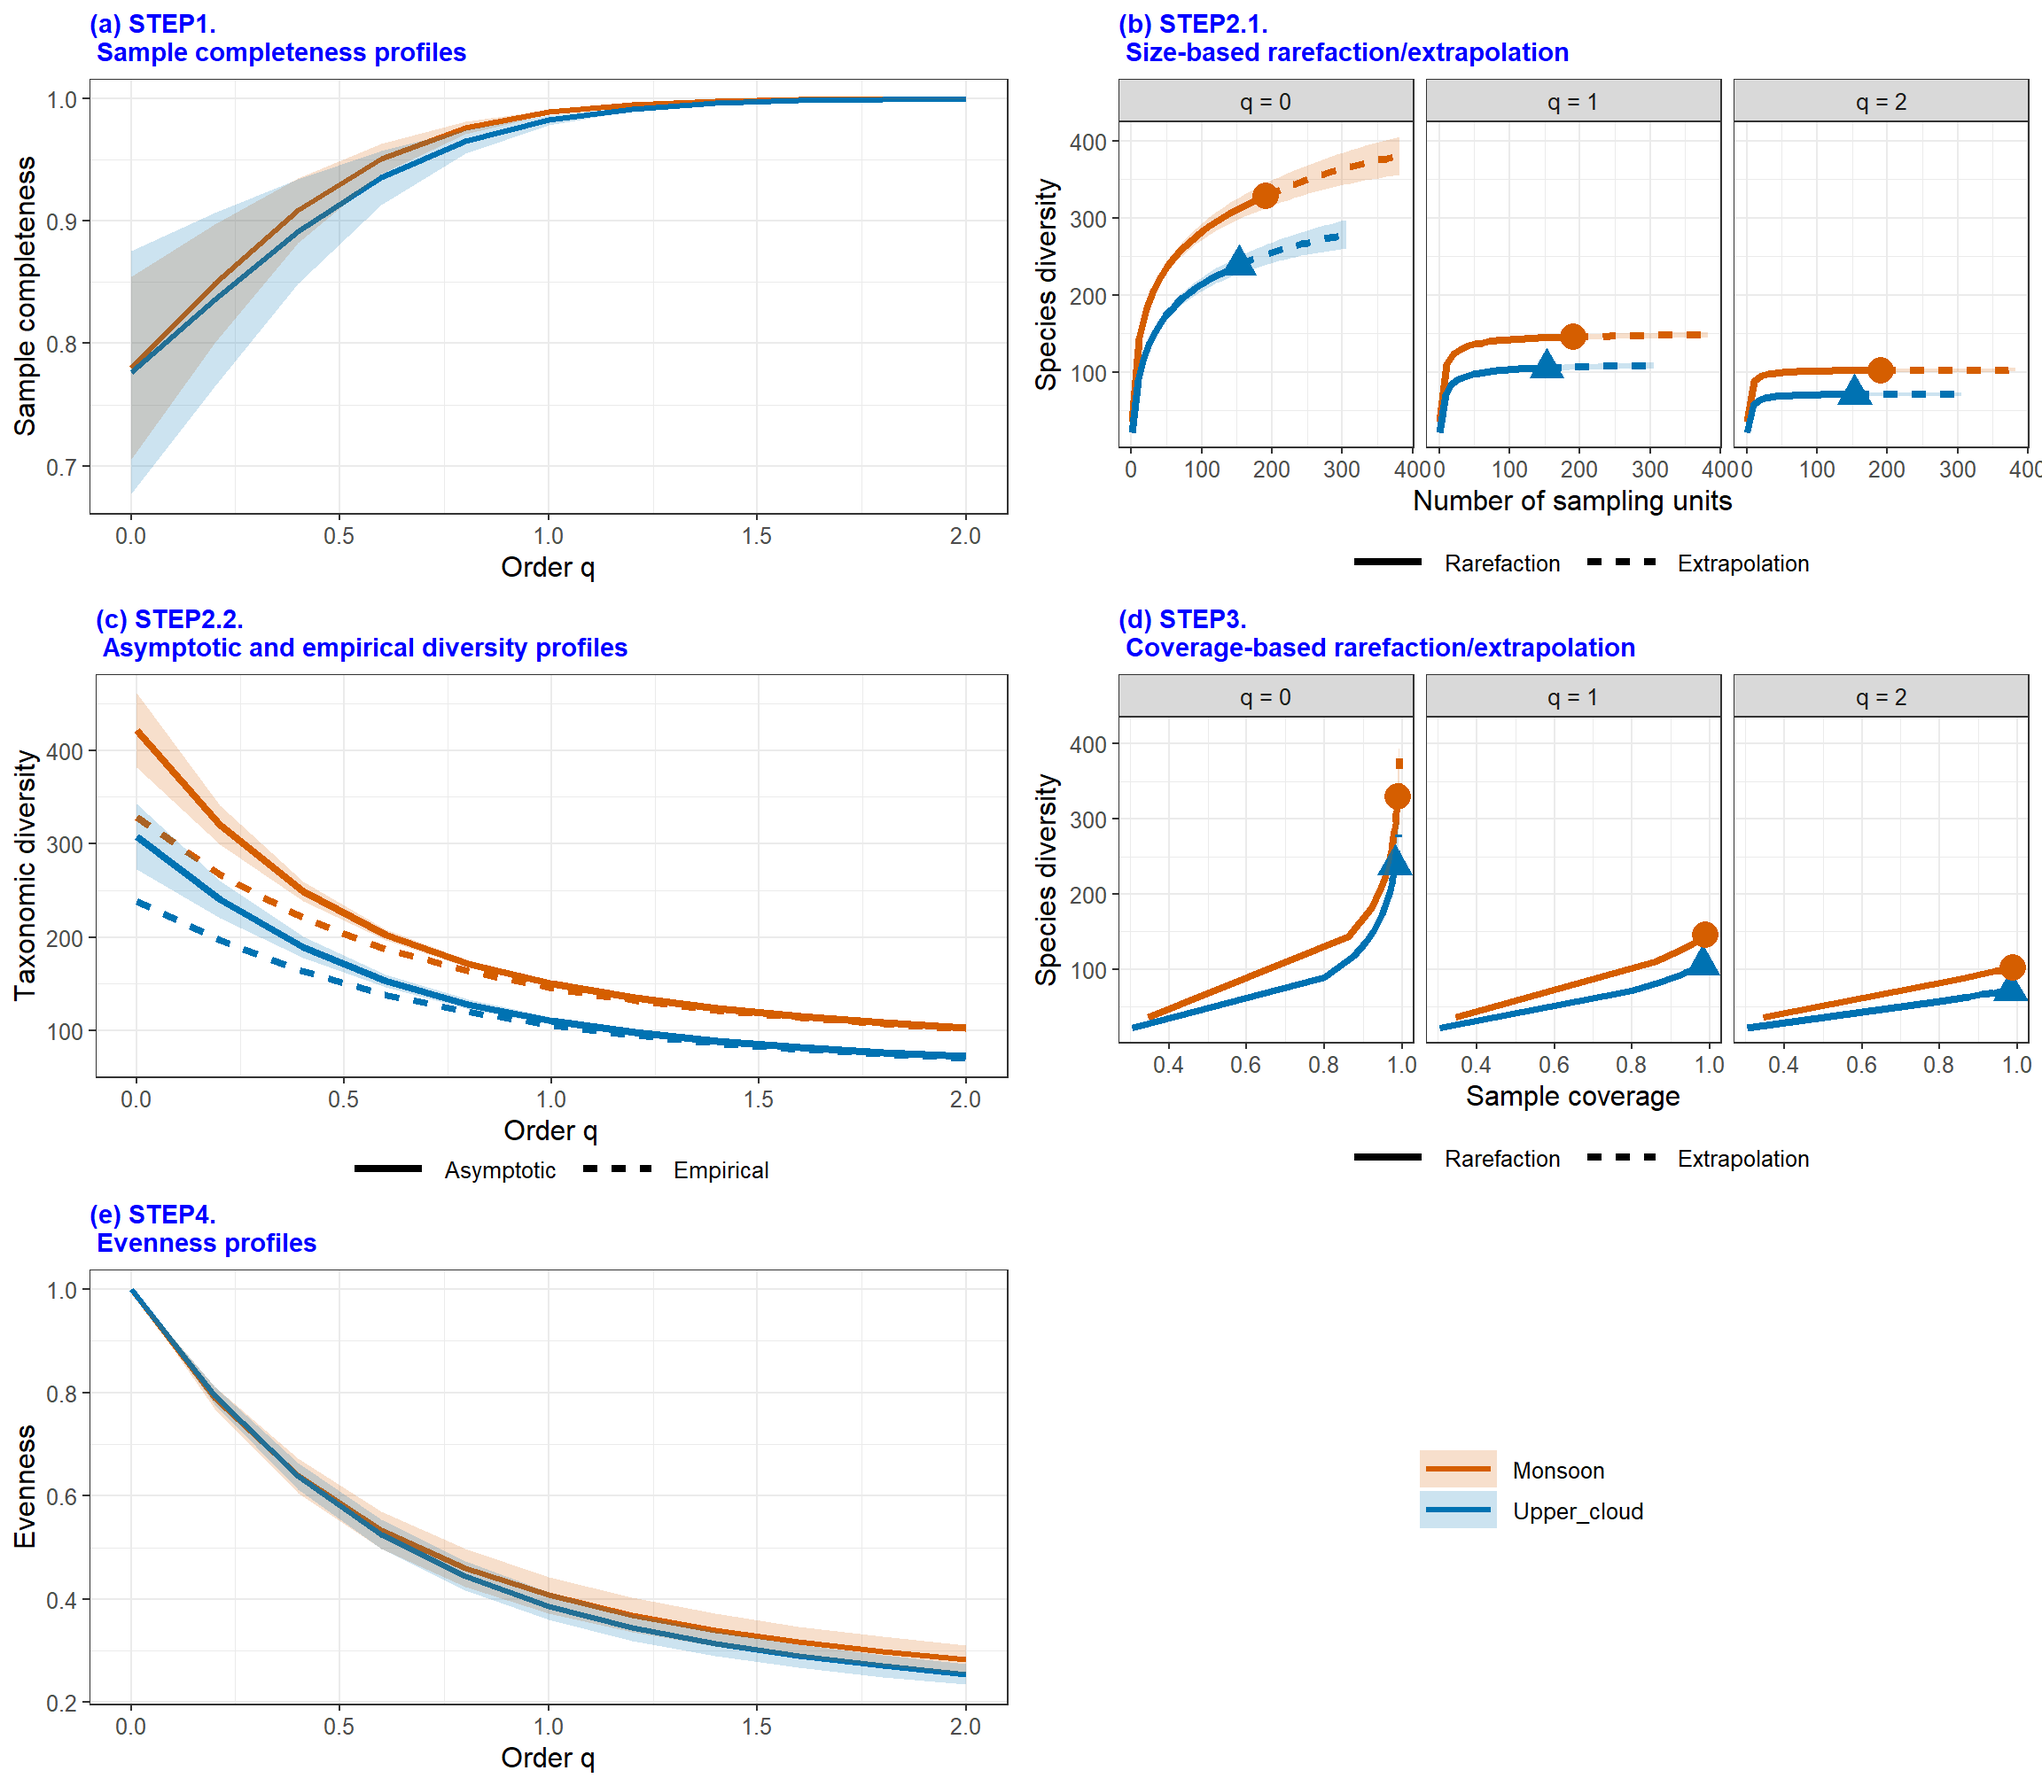
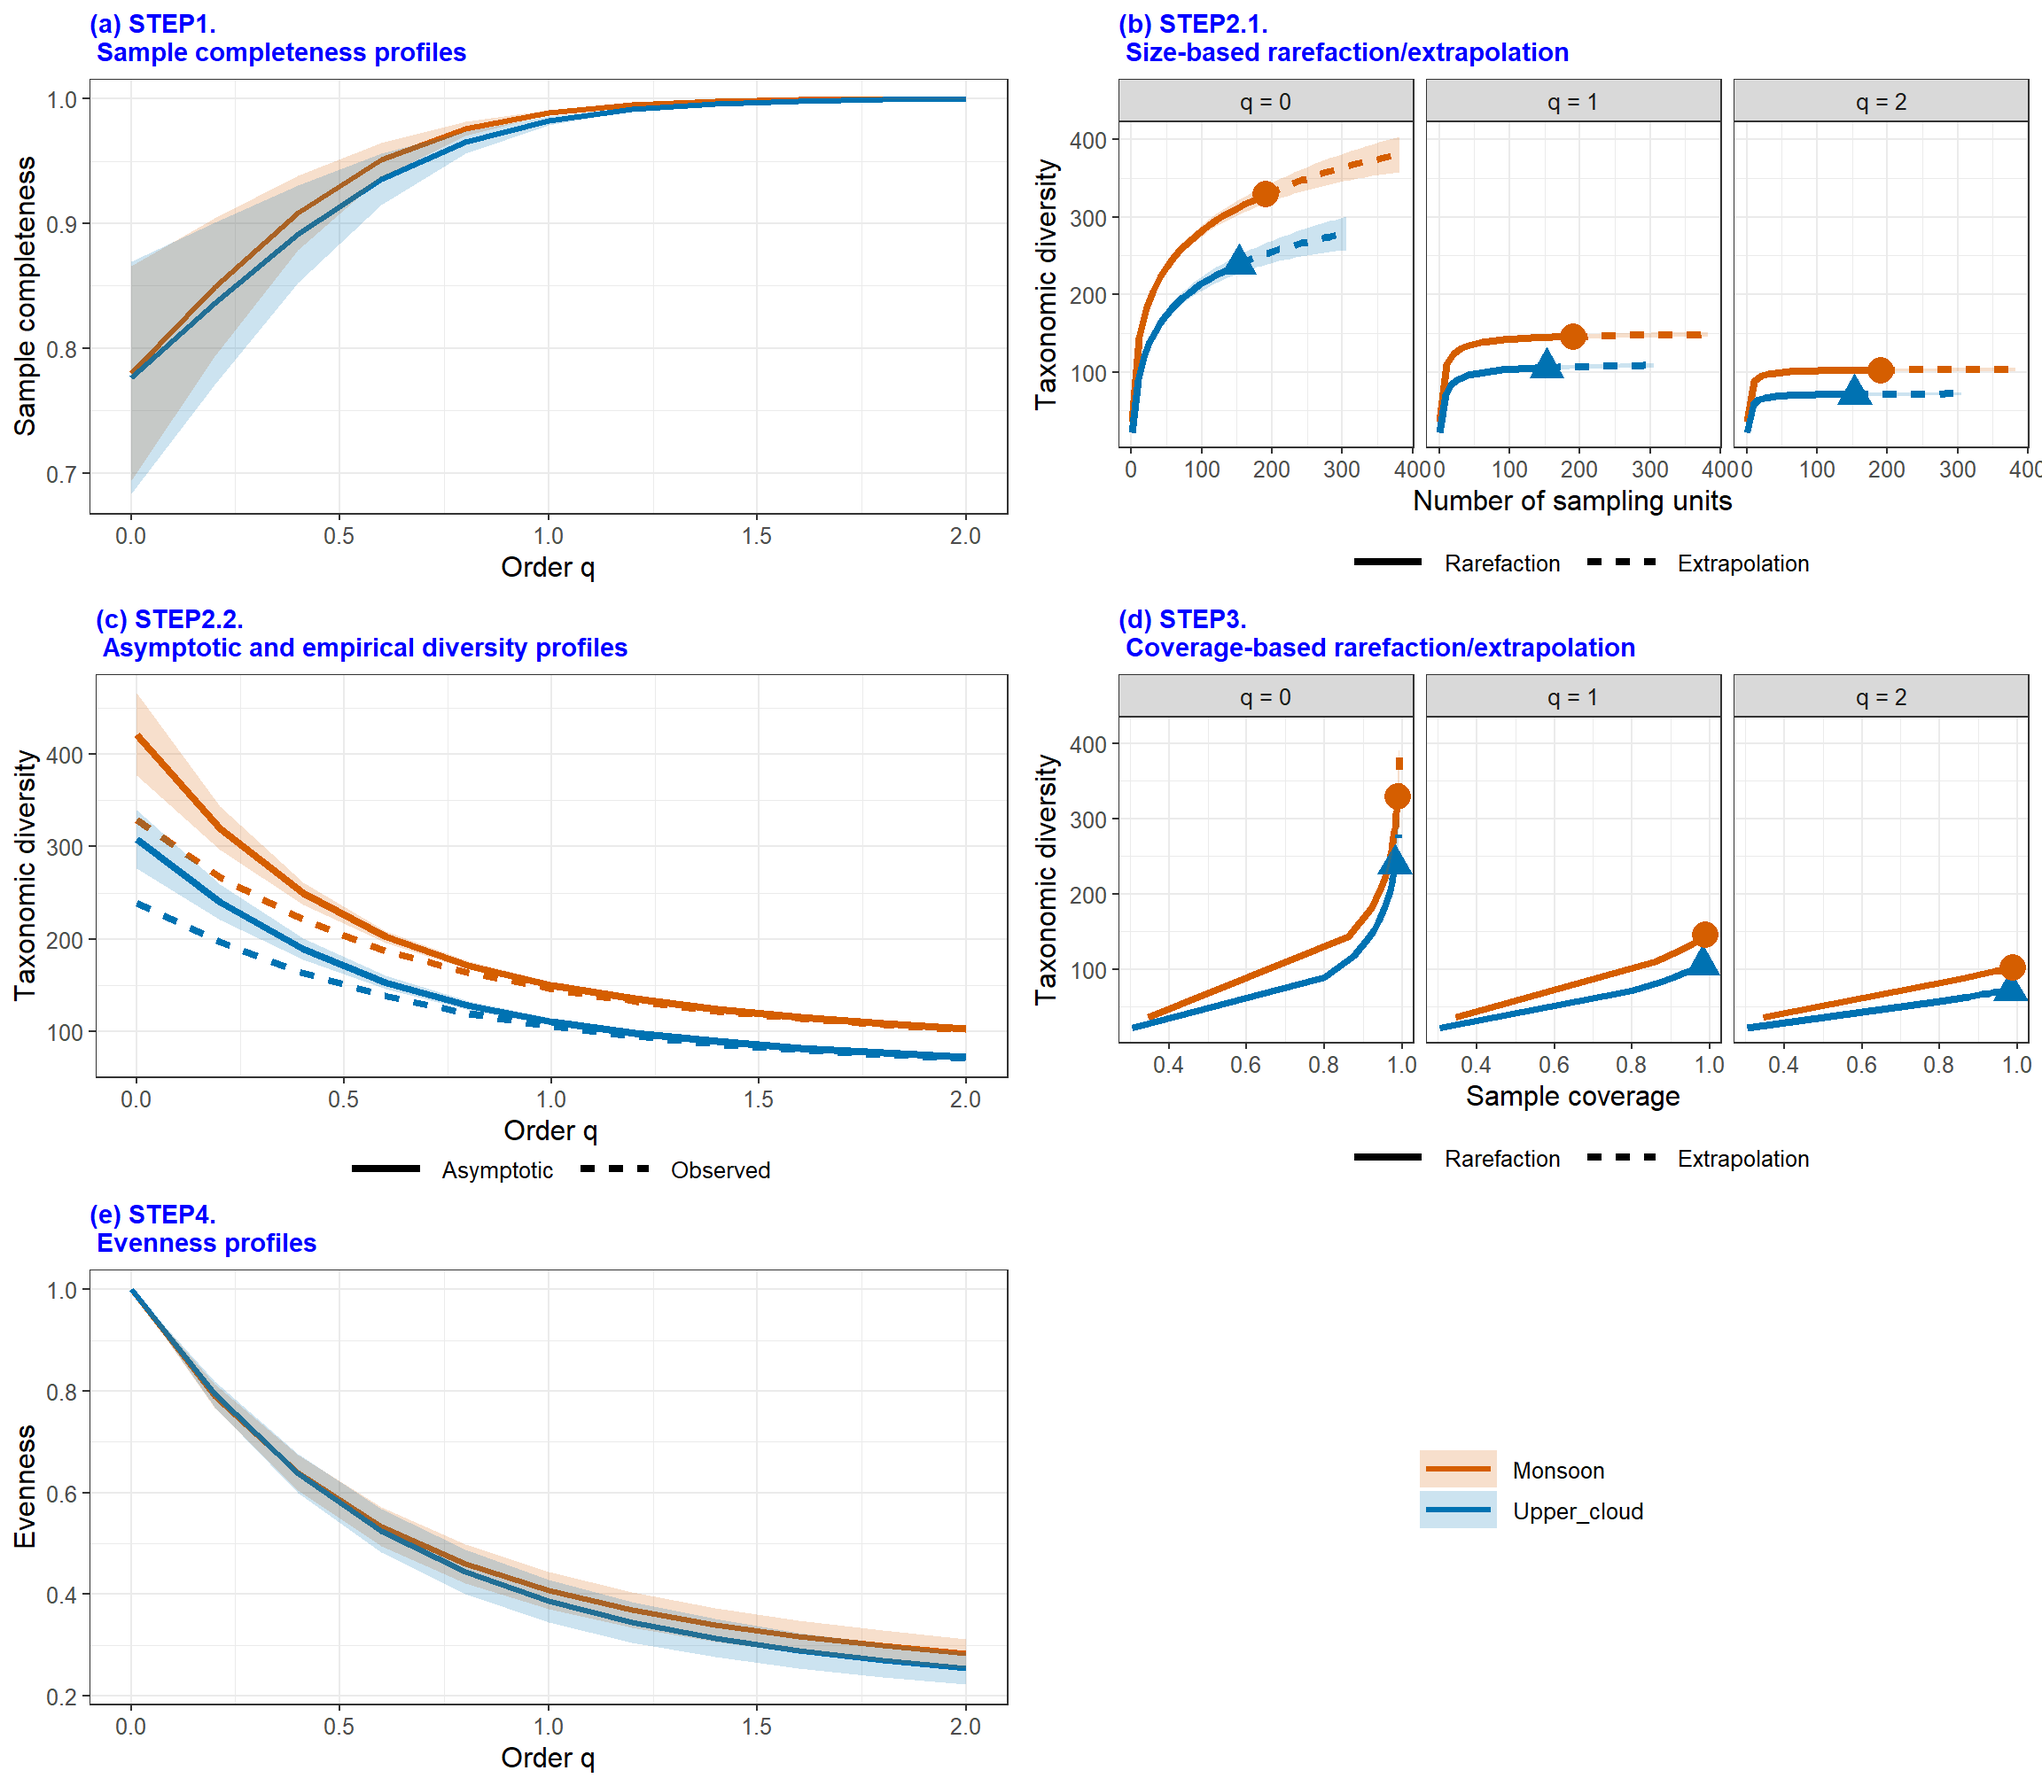
Update

diff --git a/README.md b/README.md
@@ -3,7 +3,7 @@
 # iNEXT.4steps (R package)
 
 <h5 align="right">
-Latest version: 2023-08-05
+Latest version: 2024-01-08
 </h5>
 <font color="394CAE">
 <h3 color="394CAE" style="font-weight: bold">
@@ -12,7 +12,7 @@ User’s Guide
 </h3>
 </font> <br>
 <h5>
-<b>Anne Chao, Kai-Hsiang Hu</b> <br><br> <i>Institute of Statistics,
+<b>Anne Chao, Hu, K.-H.</b> <br><br> <i>Institute of Statistics,
 National Tsing Hua University, Hsin-Chu, Taiwan 30043</i>
 </h5>
 
@@ -440,13 +440,13 @@ $`STEP1. Sample completeness profiles`
 2       Open  0.77  0.99     1
 
 $`STEP2. Asymptotic analysis`
-  Assemblage         Diversity Observed Estimator  s.e.   LCL    UCL
-1     Closed  Species richness    44.00     72.11 35.73 44.00 142.14
-2     Closed Shannon diversity    10.04     10.30  0.34  9.64  10.96
-3     Closed Simpson diversity     5.71      5.73  0.19  5.35   6.10
-4       Open  Species richness    74.00     96.31 13.40 74.00 122.56
-5       Open Shannon diversity    16.34     16.84  0.62 15.62  18.05
-6       Open Simpson diversity     9.41      9.46  0.39  8.70  10.22
+  Assemblage Taxonomic.Diversity Taxonomic.Observed Taxonomic.Estimator  s.e.   LCL    UCL
+1     Closed    Species richness              44.00               72.11 40.96 44.00 152.39
+2     Closed   Shannon diversity              10.04               10.30  0.40  9.51  11.09
+3     Closed   Simpson diversity               5.71                5.73  0.25  5.25   6.21
+4       Open    Species richness              74.00               96.31 17.02 74.00 129.66
+5       Open   Shannon diversity              16.34               16.84  0.49 15.88  17.80
+6       Open   Simpson diversity               9.41                9.46  0.28  8.90  10.01
 
 $`STEP3. Non-asymptotic coverage-based rarefaction and extrapolation analysis`
   Cmax = 0.994 q = 0 q = 1 q = 2
@@ -513,13 +513,13 @@ $`STEP1. Sample completeness profiles`
 2 Upper_cloud  0.78  0.98     1
 
 $`STEP2. Asymptotic analysis`
-   Assemblage         Diversity Observed Estimator  s.e.    LCL    UCL
-1     Monsoon  Species richness   329.00    421.67 19.67 383.13 460.22
-2     Monsoon Shannon diversity   145.65    150.15  2.00 146.23 154.07
-3     Monsoon Simpson diversity   102.33    103.35  1.47 100.46 106.23
-4 Upper_cloud  Species richness   239.00    307.78 24.44 259.89 355.67
-5 Upper_cloud Shannon diversity   105.53    110.50  1.96 106.66 114.34
-6 Upper_cloud Simpson diversity    71.17     72.23  1.37  69.54  74.91
+   Assemblage Taxonomic.Diversity Taxonomic.Observed Taxonomic.Estimator  s.e.    LCL    UCL
+1     Monsoon    Species richness             329.00              421.67 19.03 384.37 458.97
+2     Monsoon   Shannon diversity             145.65              150.15  1.81 146.61 153.69
+3     Monsoon   Simpson diversity             102.33              103.35  1.25 100.89 105.81
+4 Upper_cloud    Species richness             239.00              307.78 18.19 272.13 343.43
+5 Upper_cloud   Shannon diversity             105.53              110.50  2.12 106.35 114.64
+6 Upper_cloud   Simpson diversity              71.17               72.23  1.31  69.65  74.80
 
 $`STEP3. Non-asymptotic coverage-based rarefaction and extrapolation analysis`
   Cmax = 0.993  q = 0  q = 1  q = 2
@@ -557,12 +557,12 @@ $`STEP1. Sample completeness profiles`
 
 $`STEP2. Asymptotic analysis`
   Assemblage Phylogenetic.Diversity Phylogenetic.Observed Phylogenetic.Estimator s.e.   LCL   UCL Reftime   Type
-1       Edge               q = 0 PD                 61.29                  80.03 4.12 71.96 88.10     400 meanPD
-2       Edge               q = 1 PD                  5.25                   5.37 0.14  5.09  5.65     400 meanPD
-3       Edge               q = 2 PD                  1.80                   1.80 0.03  1.74  1.85     400 meanPD
-4   Interior               q = 0 PD                 69.32                  86.38 4.41 77.74 95.01     400 meanPD
-5   Interior               q = 1 PD                  5.72                   5.85 0.13  5.59  6.11     400 meanPD
-6   Interior               q = 2 PD                  1.91                   1.91 0.04  1.85  1.98     400 meanPD
+1       Edge               q = 0 PD                 61.29                  80.03 4.67 70.87 89.18     400 meanPD
+2       Edge               q = 1 PD                  5.25                   5.37 0.13  5.11  5.64     400 meanPD
+3       Edge               q = 2 PD                  1.80                   1.80 0.03  1.75  1.85     400 meanPD
+4   Interior               q = 0 PD                 69.32                  86.38 3.60 79.32 93.43     400 meanPD
+5   Interior               q = 1 PD                  5.72                   5.85 0.13  5.59  6.12     400 meanPD
+6   Interior               q = 2 PD                  1.91                   1.91 0.03  1.86  1.97     400 meanPD
 
 $`STEP3. Non-asymptotic coverage-based rarefaction and extrapolation analysis`
   Cmax = 0.973 q = 0 q = 1 q = 2
@@ -599,16 +599,16 @@ $`STEP1. Sample completeness profiles`
 $`STEP2. Asymptotic analysis`
   Assemblage Functional.Diversity Functional.Observed Functional.Estimator s.e.  LCL  UCL  Tau
 1       Edge q = 0 FD(single tau)                6.86                 6.86 0.19 6.86 7.24 0.35
-2       Edge q = 1 FD(single tau)                6.52                 6.54 0.13 6.28 6.80 0.35
-3       Edge q = 2 FD(single tau)                6.26                 6.28 0.12 6.05 6.50 0.35
-4   Interior q = 0 FD(single tau)                5.91                 5.91 0.06 5.91 6.02 0.35
-5   Interior q = 1 FD(single tau)                5.19                 5.20 0.08 5.05 5.35 0.35
-6   Interior q = 2 FD(single tau)                4.72                 4.72 0.09 4.56 4.89 0.35
+2       Edge q = 1 FD(single tau)                6.52                 6.52 0.13 6.27 6.78 0.35
+3       Edge q = 2 FD(single tau)                6.26                 6.26 0.11 6.04 6.48 0.35
+4   Interior q = 0 FD(single tau)                5.91                 5.91 0.07 5.91 6.05 0.35
+5   Interior q = 1 FD(single tau)                5.19                 5.19 0.09 5.02 5.37 0.35
+6   Interior q = 2 FD(single tau)                4.72                 4.72 0.10 4.52 4.91 0.35
 
 $`STEP3. Non-asymptotic coverage-based rarefaction and extrapolation analysis`
   Cmax = 0.973 q = 0 q = 1 q = 2
-1         Edge  6.86  6.53  6.27
-2     Interior  5.91  5.20  4.72
+1         Edge  6.86  6.52  6.26
+2     Interior  5.91  5.19  4.72
 
 $`STEP4. Evenness among species abundances`
          Pielou J' q = 1 q = 2
